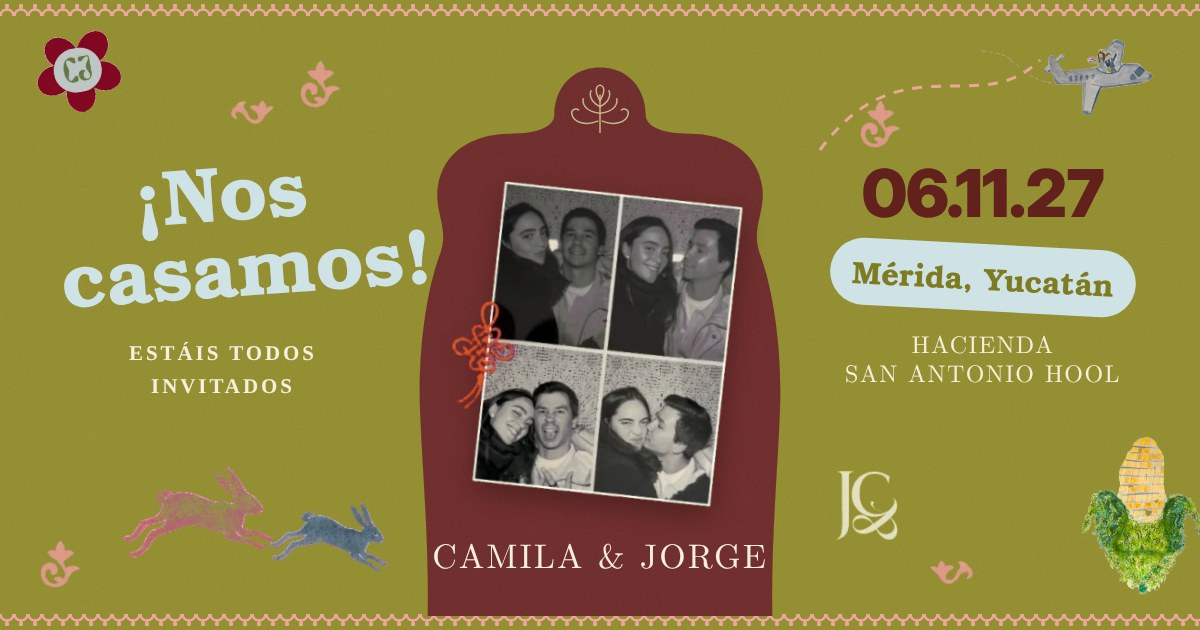
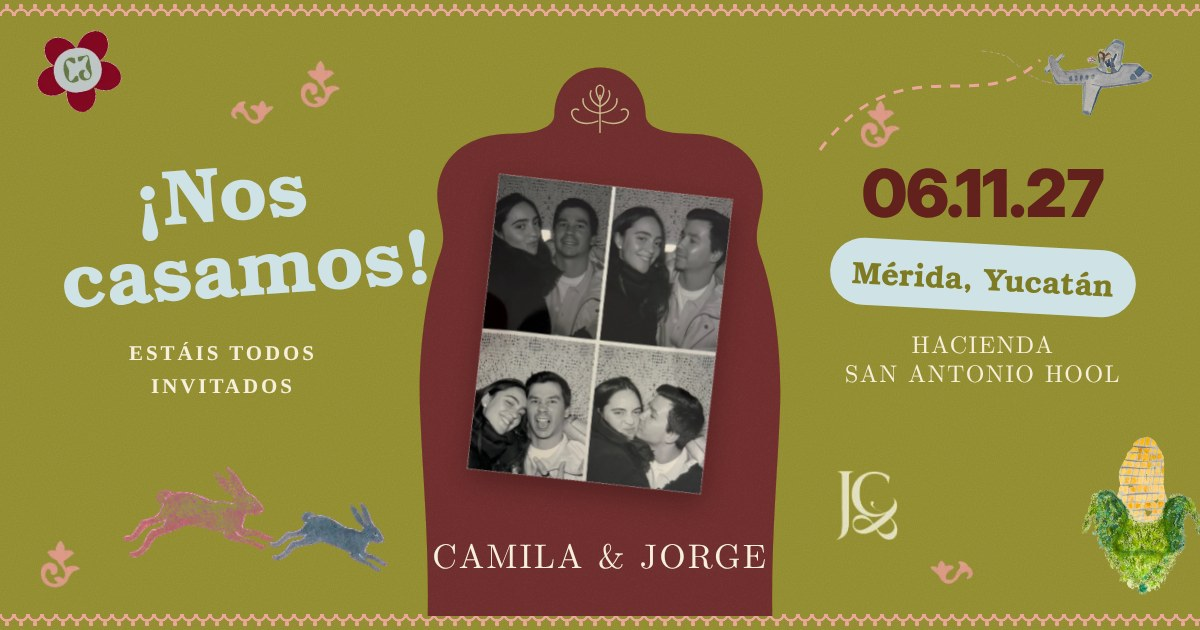
Cambios Web

Changed region(s): [[0.37, 0.2714, 0.6167, 0.8143]]

diff --git a/css/styles.css b/css/styles.css
@@ -22,6 +22,7 @@
   --f-display: "Bodoni Moda", "Didot", "Bodoni 72", Georgia, serif;
   --f-chunky: "Fraunces", "Cooper Black", Georgia, serif;
   --f-block: "Bungee", "Arial Black", Impact, sans-serif;
+  --f-pixel: "Jacquard 24", "Courier New", monospace;
   --f-mono: "Courier Prime", "Courier New", ui-monospace, monospace;
 
   --gl: max(20px, env(safe-area-inset-left, 0px));
@@ -32,7 +33,7 @@
 /* ---------- base ---------- */
 *, *::before, *::after { box-sizing: border-box; }
 html { background: var(--olive); -webkit-text-size-adjust: 100%; text-size-adjust: 100%; }
-@media (prefers-reduced-motion: no-preference) { html { scroll-behavior: smooth; } }
+@media all { html { scroll-behavior: smooth; } }
 html.menu-open { overflow: hidden; }
 body {
   margin: 0;
@@ -132,7 +133,7 @@ button { font: inherit; color: inherit; }
   padding: calc(84px + env(safe-area-inset-top, 0px)) var(--gr) calc(32px + env(safe-area-inset-bottom, 0px)) var(--gl);
   overflow-y: auto; overscroll-behavior: contain;
 }
-@media (prefers-reduced-motion: no-preference) { .menu { animation: menuIn .45s cubic-bezier(.2,.9,.3,1); } }
+@media all { .menu { animation: menuIn .45s cubic-bezier(.2,.9,.3,1); } }
 .menu ul { list-style: none; margin: 0; padding: 0; display: grid; gap: .25rem; text-align: center; }
 .menu a {
   font-family: var(--f-display); text-transform: uppercase;
@@ -146,22 +147,22 @@ button { font: inherit; color: inherit; }
 /* ---------- portada ---------- */
 .top__inner { display: flex; justify-content: center; padding-block: 18px 20px; }
 .monogram { width: 66px; }
-@media (prefers-reduced-motion: no-preference) { .monogram:not(.monogram--small) { animation: inkIn 1.2s ease-out both; } }
+@media all { .monogram:not(.monogram--small) { animation: inkIn 1.2s ease-out both; } }
 @keyframes inkIn { from { clip-path: inset(0 0 100% 0); } to { clip-path: inset(0 0 0 0); } }
 
 .announce { background: var(--sky); }
-.announce__inner { display: grid; grid-template-columns: 1fr 1fr; align-items: center; gap: 12px; padding-block: 18px; }
+.announce__inner { display: grid; justify-items: center; gap: 6px; padding-block: 20px 22px; }
 .announce__big {
   margin: 0;
-  font-family: var(--f-chunky);
-  font-variation-settings: "SOFT" 100;
-  font-weight: 900;
+  font-family: var(--f-pixel);
+  font-weight: 400;
   color: var(--olive-ink);
-  font-size: clamp(1.05rem, 4.6vw, 2rem);
-  line-height: 1.12;
+  font-size: clamp(2rem, 9vw, 3.6rem);
+  text-wrap: balance;
+  line-height: .95;
   text-align: center;
+  letter-spacing: .01em;
 }
-.mono-date { font-variant-numeric: tabular-nums; }
 
 /* ---------- marco con nombres ---------- */
 .hero { padding-block: 62px 66px; }
@@ -171,8 +172,9 @@ button { font: inherit; color: inherit; }
   width: 30px;
 }
 .ornaments img.flip { transform: scaleX(-1); }
-@media (prefers-reduced-motion: no-preference) {
-  .ornaments img { animation: bob 5s ease-in-out infinite; animation-delay: calc(var(--y) * -0.08s); }
+@media all {
+  .ornaments img { animation: bob 5s ease-in-out infinite; }
+  .ornaments img:nth-child(even) { animation-delay: -2.5s; }
 }
 @keyframes bob { 50% { translate: 0 -6px; } }
 .ornaments img:nth-child(n+5):nth-child(-n+8) { display: none; }   /* laterales: solo en pantallas anchas */
@@ -214,14 +216,14 @@ button { font: inherit; color: inherit; }
 .name--couple { font-weight: 700; color: #fff8e8; font-size: .8rem; }
 .tag { display: block; font-size: .62rem; letter-spacing: .1em; color: var(--pink); line-height: 1.3; margin-bottom: .35em; font-weight: 400; }
 .strip {
-  margin: 0; align-self: stretch;
+  margin: 0; align-self: stretch; position: relative; min-height: 100%;
   background: #f4f0e6; padding: 3px;
   box-shadow: 0 10px 22px rgba(30,10,8,.35);
   transform: rotate(-1deg);
 }
-.strip img { width: 100%; height: 100%; object-fit: cover; }
+.strip img { position: absolute; inset: 3px; width: calc(100% - 6px); height: calc(100% - 6px); object-fit: cover; object-position: 50% 50%; }
 .rabbit { justify-self: center; width: min(100%, 84px); }
-@media (prefers-reduced-motion: no-preference) {
+@media all {
   .rabbit--l { animation: hop 1.4s ease-in-out infinite; }
   .rabbit--r { animation: hop 1.4s ease-in-out .7s infinite; }
 }
@@ -246,9 +248,13 @@ button { font: inherit; color: inherit; }
 .countdown__label { font-family: var(--f-block); font-size: clamp(1.8rem, 9vw, 3rem); line-height: 1; margin-top: .15em; }
 .countdown__small { margin-top: 12px; font-size: .82rem; color: var(--olive-ink); font-variant-numeric: tabular-nums; }
 .stars { border: 0; background: none; padding: 0; cursor: pointer; display: block; margin: 6px auto 0; width: min(190px, 70%); }
-@media (prefers-reduced-motion: no-preference) { .stars img { animation: wiggle 2.4s ease-in-out infinite; transform-origin: 50% 90%; } }
+@media all { .stars img { animation: wiggle 2.4s ease-in-out infinite; transform-origin: 50% 90%; } }
 @keyframes wiggle { 25% { transform: rotate(-4deg); } 75% { transform: rotate(4deg); } }
-.photo-grid { margin: 0 auto; width: min(84%, 340px); transform: rotate(3deg); }
+.photo-grid { margin: 0 auto; width: min(84%, 340px); transform: rotate(3deg); position: relative; }
+.photo-grid img:not(.lazo) { filter: drop-shadow(0 10px 16px rgba(44,22,17,.3)); }
+.lazo { position: absolute; left: -9%; top: 34%; width: 22%; z-index: 2; transform-origin: 70% 10%; }
+@media all { .lazo { animation: swing 3s ease-in-out infinite; } }
+@keyframes swing { 50% { transform: rotate(8deg); } }
 
 .reception { margin-top: 64px; display: grid; justify-items: center; gap: 10px; text-align: center; }
 .reception__img { width: min(100%, 560px); }
@@ -278,7 +284,7 @@ button { font: inherit; color: inherit; }
 .bunny { position: absolute; width: 72px; bottom: 0; }
 .bunny--1 { left: 0; }
 .bunny--2 { left: 48%; bottom: 26px; }
-@media (prefers-reduced-motion: no-preference) {
+@media all {
   .bunny--1 { animation: run 3.2s ease-in-out infinite; }
   .bunny--2 { animation: run 3.2s ease-in-out .5s infinite; }
 }
@@ -292,14 +298,14 @@ button { font: inherit; color: inherit; }
 .merida__text { margin-top: 28px; display: grid; gap: 18px; justify-items: start; max-width: 46ch; }
 .merida__text p { margin: 0; font-size: .95rem; }
 .corn { position: absolute; right: 7%; bottom: -46px; z-index: 3; width: 92px; transform-origin: 50% 100%; }
-@media (prefers-reduced-motion: no-preference) { .corn { animation: peek 4s ease-in-out infinite; } }
+@media all { .corn { animation: peek 4s ease-in-out infinite; } }
 @keyframes peek { 50% { transform: rotate(-6deg) translateY(-6px); } }
 
 /* ---------- programa ---------- */
 .programa { padding-block: 64px 200px; }
 .programa__head { display: flex; align-items: center; gap: 14px; margin-bottom: 34px; }
 .dragonfly { width: 72px; flex: none; }
-@media (prefers-reduced-motion: no-preference) { .dragonfly { animation: flutter 3s ease-in-out infinite; } }
+@media all { .dragonfly { animation: flutter 3s ease-in-out infinite; } }
 @keyframes flutter { 50% { transform: rotate(5deg) translateY(-4px); } }
 .programa .display { font-size: clamp(2rem, 9vw, 4.2rem); }
 
@@ -349,7 +355,7 @@ button { font: inherit; color: inherit; }
 .picado svg:nth-child(5n+3) { fill: var(--yellow); }
 .picado svg:nth-child(5n+4) { fill: #3d6fa8; }
 .picado svg:nth-child(5n+5) { fill: #7a9b35; }
-@media (prefers-reduced-motion: no-preference) {
+@media all {
   .picado svg { animation: flap 3.5s ease-in-out infinite; }
   .picado svg:nth-child(odd) { animation-delay: -1.7s; }
 }
@@ -546,7 +552,7 @@ button { font: inherit; color: inherit; }
 /* ---------- RSVP ---------- */
 .rsvp { padding-block: 60px 140px; overflow: clip; }
 .lobster { position: absolute; left: -48px; top: 14px; width: 132px; transform: rotate(-14deg); pointer-events: none; transform-origin: 50% 60%; }
-@media (prefers-reduced-motion: no-preference) { .lobster { animation: claws 6s ease-in-out infinite; } }
+@media all { .lobster { animation: claws 6s ease-in-out infinite; } }
 @keyframes claws { 50% { transform: rotate(-8deg) translateY(8px); } }
 .symbols { position: absolute; left: 7%; bottom: 34px; width: 40px; }
 .rsvp__inner { display: grid; gap: 10px; }
@@ -596,7 +602,7 @@ button { font: inherit; color: inherit; }
 .garden { position: absolute; left: 50%; bottom: -2px; translate: -50% 0; display: flex; align-items: flex-end; z-index: 3; }
 .cactus { width: 70px; transform-origin: 50% 100%; }
 .agave { width: 100px; margin-left: -12px; transform-origin: 50% 100%; }
-@media (prefers-reduced-motion: no-preference) {
+@media all {
   .cactus { animation: sway 4s ease-in-out infinite; }
   .agave { animation: sway 4s ease-in-out -2s infinite; }
 }
@@ -626,7 +632,7 @@ button { font: inherit; color: inherit; }
 .maya-dog { position: absolute; right: 4%; bottom: calc(8px + env(safe-area-inset-bottom, 0px)); width: 74px; z-index: 1; }
 
 /* ---------- efectos ---------- */
-@media (prefers-reduced-motion: no-preference) {
+@media all {
   .js-pop.is-pop { animation: pop .8s cubic-bezier(.3,1.7,.5,1); }
 }
 @keyframes pop { 0% { scale: .84; rotate: -4deg; } 60% { scale: 1.05; rotate: 1.5deg; } 100% { scale: 1; rotate: 0deg; } }
@@ -657,7 +663,8 @@ button { font: inherit; color: inherit; }
   .flower-btn:hover { transform: rotate(calc(var(--spin, 0deg) + 40deg)) scale(1.08); }
   .btn:hover { transform: rotate(-2deg) scale(1.04); }
   .monogram { width: 80px; }
-  .announce__inner { display: flex; justify-content: space-around; padding-block: 26px; }
+  .announce__inner { display: flex; justify-content: space-around; align-items: center; padding-block: 30px; }
+  .announce__big { font-size: clamp(2.6rem, 4.6vw, 3.8rem); }
 
   .hero { padding-block: 70px 80px; }
   .ornaments img { width: 40px; }
@@ -739,6 +746,3 @@ button { font: inherit; color: inherit; }
   .maya-dog { width: clamp(100px, 13vw, 150px); right: 3%; bottom: 14px; }
 }
 
-@media (prefers-reduced-motion: reduce) {
-  *, *::before, *::after { animation: none !important; transition: none !important; }
-}

diff --git a/index.html b/index.html
@@ -29,7 +29,7 @@
 <link rel="apple-touch-icon" href="assets/icons/apple-touch-icon.png">
 <link rel="preconnect" href="https://fonts.googleapis.com">
 <link rel="preconnect" href="https://fonts.gstatic.com" crossorigin>
-<link rel="stylesheet" href="https://fonts.googleapis.com/css2?family=Bodoni+Moda:opsz,wght@6..96,500;6..96,600&family=Bungee&family=Courier+Prime:wght@400;700&family=Fraunces:opsz,wght,SOFT@9..144,700;9..144,900&display=swap">
+<link rel="stylesheet" href="https://fonts.googleapis.com/css2?family=Bodoni+Moda:opsz,wght@6..96,500;6..96,600&family=Bungee&family=Jacquard+24&family=Courier+Prime:wght@400;700&family=Fraunces:opsz,wght,SOFT@9..144,700;9..144,900&display=swap">
 <link rel="stylesheet" href="css/styles.css">
 </head>
 <body>
@@ -106,7 +106,7 @@
   <div class="lace"></div>
   <div class="wrap announce__inner">
     <p class="announce__big">We are<br>getting married!</p>
-    <p class="announce__big"><span class="mono-date">06.11.2027</span><br>Mérida, Yucatán</p>
+    <p class="announce__big">06.11.2027<br>Mérida, Yucatán</p>
   </div>
   <div class="lace lace--flip"></div>
 </section>
@@ -155,7 +155,7 @@
     <div class="frame__grid">
       <p class="name name--couple"><span class="tag">La novia</span>Camila<br>Escalante<br>Heckmuller</p>
       <figure class="strip">
-        <img width="125" height="640" src="assets/img/fotos-tira.jpg" alt="Tira de fotomatón de Camila y Jorge" fetchpriority="high">
+        <img width="233" height="1192" src="assets/img/fotos-tira.webp" alt="Tira de fotomatón de Camila y Jorge" fetchpriority="high">
       </figure>
       <p class="name name--couple"><span class="tag">El novio</span>Jorge Ángel<br>García de los<br>Huertos<br>Sánchez</p>
 
@@ -190,7 +190,8 @@
         </button>
       </div>
       <figure class="photo-grid js-pop">
-        <img width="319" height="359" src="assets/img/fotos-grid.webp" alt="Cuatro fotos de fotomatón de Camila y Jorge" loading="lazy">
+        <img class="lazo" width="112" height="240" src="assets/img/lazo.webp" alt="" loading="lazy">
+        <img width="553" height="658" src="assets/img/fotos-grid.webp" alt="Cuatro fotos de fotomatón de Camila y Jorge" loading="lazy">
       </figure>
     </div>
 

diff --git a/js/main.js b/js/main.js
@@ -2,7 +2,8 @@
   "use strict";
   var cfg = window.BODA || {};
   var guia = window.GUIA || {};
-  var reduce = window.matchMedia("(prefers-reduced-motion: reduce)").matches;
+  // Las animaciones se muestran siempre, también con "Reducir movimiento" activado en el móvil.
+  var reduce = false;
   function $(s, r) { return (r || document).querySelector(s); }
   function $$(s, r) { return Array.prototype.slice.call((r || document).querySelectorAll(s)); }
 
